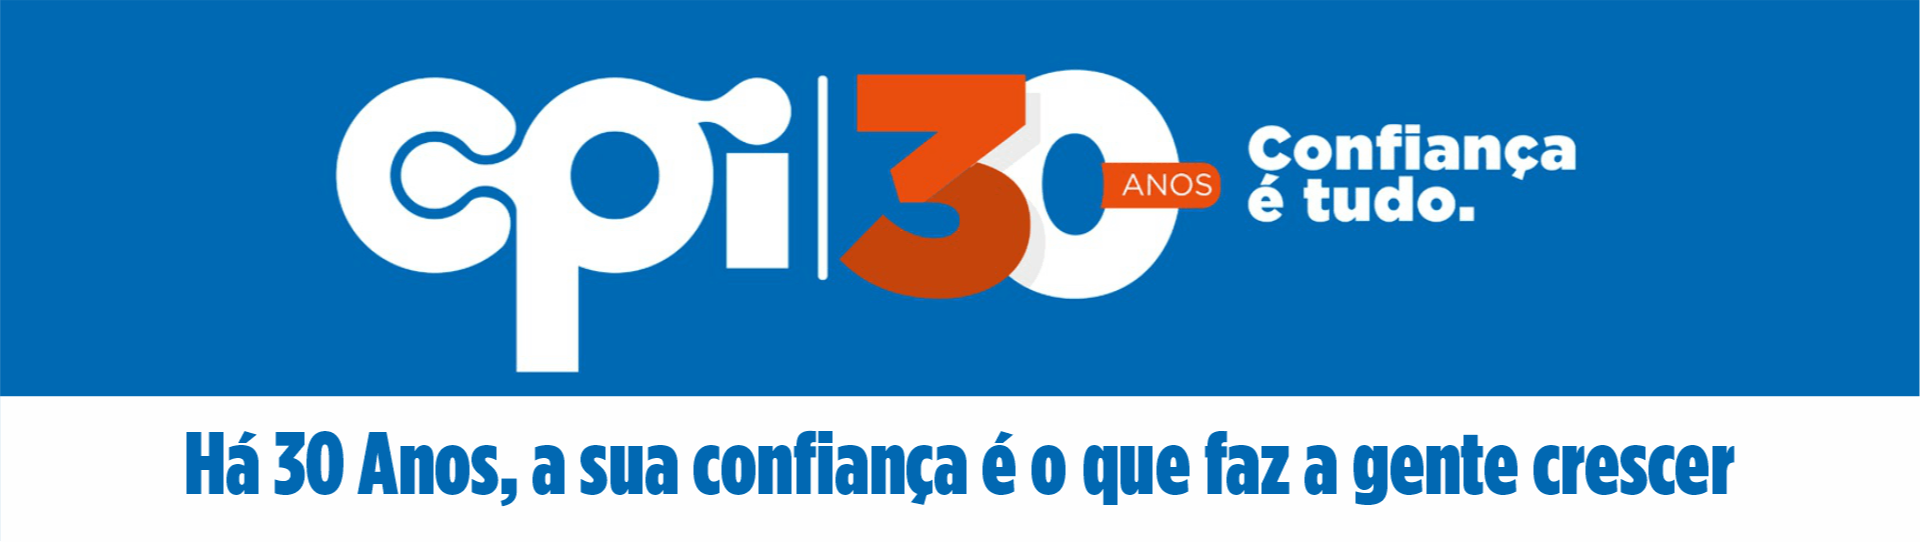
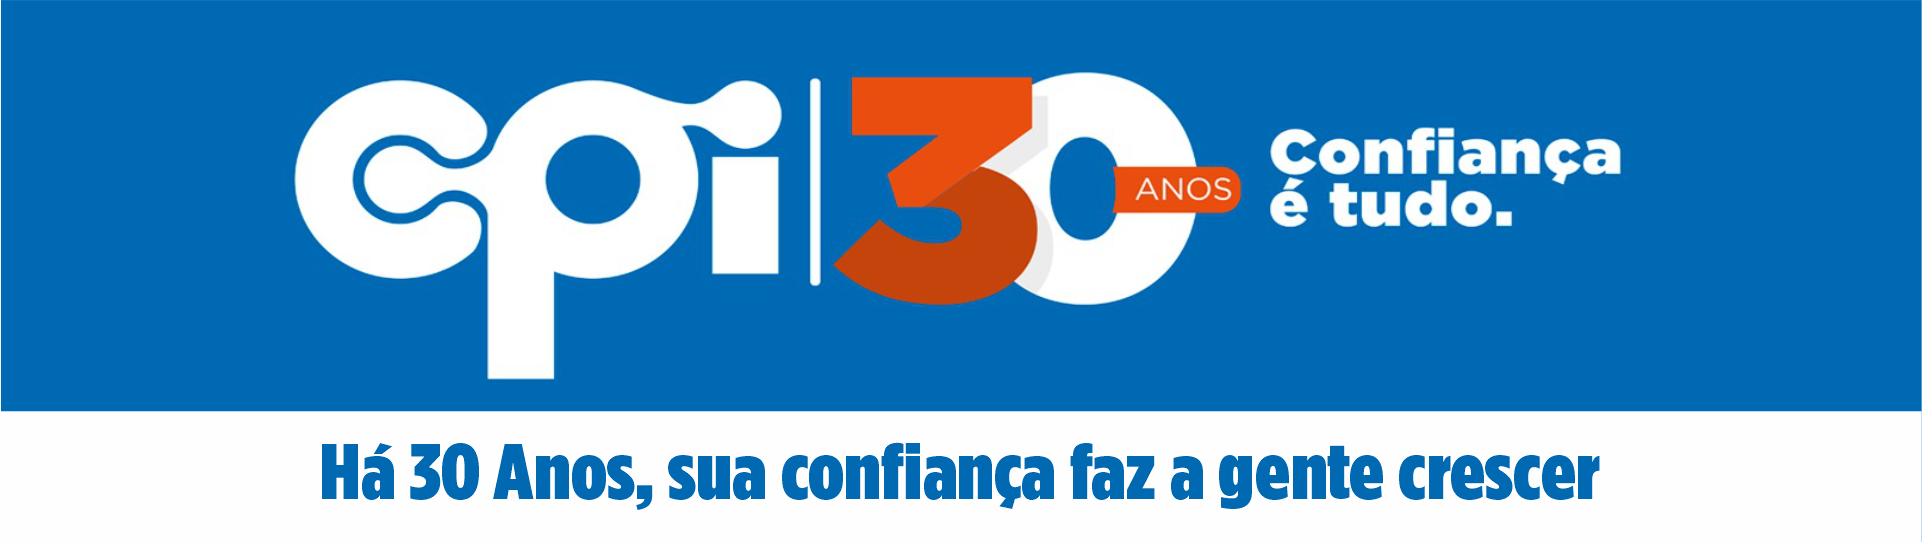
colocar 2 videos diferente e trocar a frase

Changed region(s): [[0.0, 0.0, 1.0, 1.0], [0.0937, 0.797, 0.9058, 0.9446]]

diff --git a/index.html b/index.html
@@ -1,7 +1,9 @@
 <!DOCTYPE html>
 <html  >
 <head>
+
   <!-- Site made with Mobirise Website Builder v5.9.0, https://mobirise.com -->
+
   <meta charset="UTF-8">
   <meta http-equiv="X-UA-Compatible" content="IE=edge">
   <meta name="generator" content="Mobirise v5.9.0, mobirise.com">
@@ -26,21 +28,19 @@
   
 </head>
 <body>
-  
+ 
   <section data-bs-version="5.1" class="features23 cid-tLTGOGeeA1" id="features023-k">
 
-    
-
-    
     
     <div class="container">
         <div class="card-wrapper mb-5">
             <div class="card-box align-left">
-                
-                
-                
+              
             </div>
         </div>
+
+        <!-- topico referente a primeira imagem - primeira sessão -->
+
         <div class="row content-row mt-4">
             <div class="item features-without-image col-12 col-md-6 col-lg-4 item-mb">
                 
@@ -49,17 +49,41 @@
                 
             </div>
             <div class="item features-without-image col-12 col-md-6 col-lg-4 item-mb">
+
+            </div>
+            <div class="item features-without-image col-12 col-md-6 col-lg-4 item-mb">
                 
             </div>
         </div>
     </div>
 </section>
 
+<br>
+
 <section data-bs-version="5.1" class="gallery1 mbr-gallery cid-tLTnLGmoRW" id="gallery01-8">
+   
     
 
+<section data-bs-version="5.1" class="header7 cid-tLSLaXe2Ky" id="header07-4">
+  
+  
+  <div class="topbg"></div>
+  <div class="align-center container-fluid">
+    <div class="row justify-content-center">
+      <div class="col-md-12 col-lg-9">
+        
+        
+        
+      </div>
+    </div>
+
+    <div class="row mt-6 justify-content-center">
+      <div class="mbr-figure col-20 col-md-12"><iframe class="mbr-embedded-video" src="https://www.youtube.com/embed/V28FmPCTWK0?rel=0&amp;amp;mute=1&amp;showinfo=0&amp;autoplay=1&amp;loop=1&amp;playlist=V28FmPCTWK0" width="1920" height="1080" frameborder="0" allowfullscreen></iframe></div>
+    </div>
+  </div>
+</section>   
     
-    
+<br>
 
     <div class="container">
         <div class="mbr-section-head mb-5">
@@ -610,8 +634,8 @@
       </div>
     </div>
 
-    <div class="row mt-5 justify-content-center">
-      <div class="mbr-figure col-12 col-md-8"><iframe class="mbr-embedded-video" src="https://www.youtube.com/embed/V28FmPCTWK0?rel=0&amp;amp;mute=1&amp;showinfo=0&amp;autoplay=1&amp;loop=1&amp;playlist=V28FmPCTWK0" width="1280" height="720" frameborder="0" allowfullscreen></iframe></div>
+    <div class="row mt-6 justify-content-center">
+      <div class="mbr-figure col-20 col-md-12"><iframe class="mbr-embedded-video" src="https://www.youtube.com/embed/V28FmPCTWK0?rel=0&amp;amp;mute=1&amp;showinfo=0&amp;autoplay=1&amp;loop=1&amp;playlist=V28FmPCTWK0" width="1920" height="1080" frameborder="0" allowfullscreen></iframe></div>
     </div>
   </div>
 </section>
